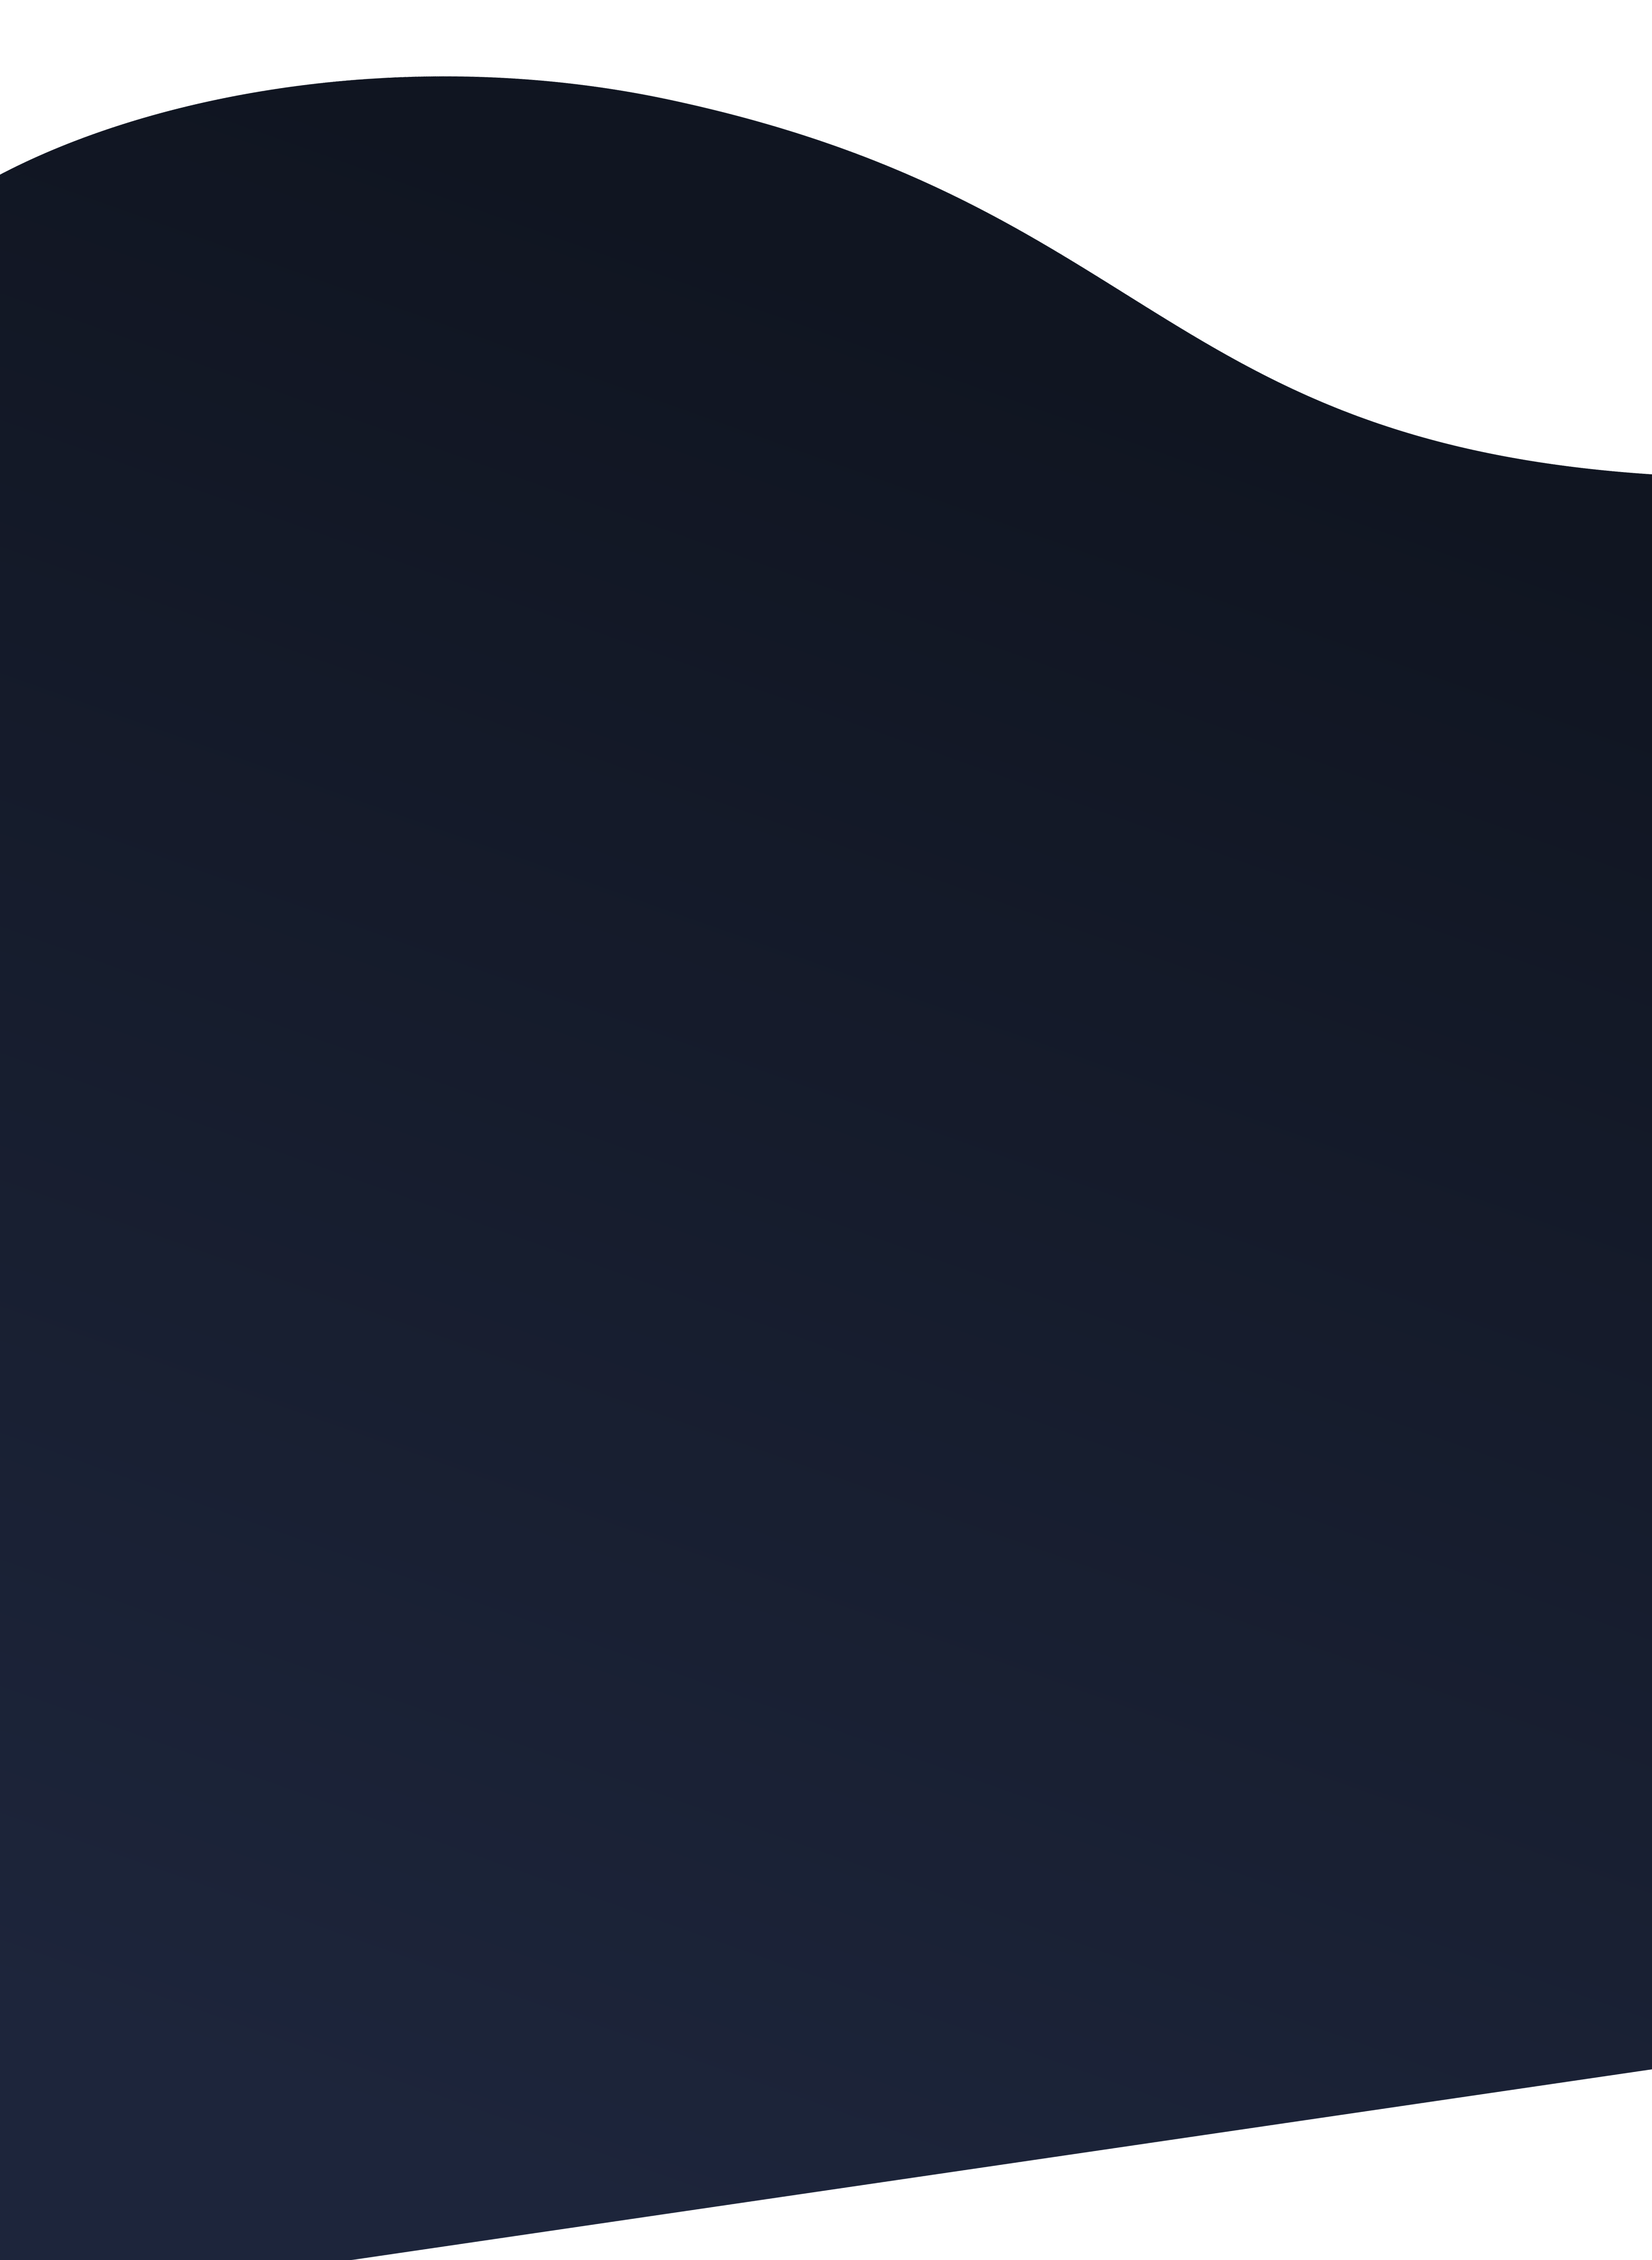
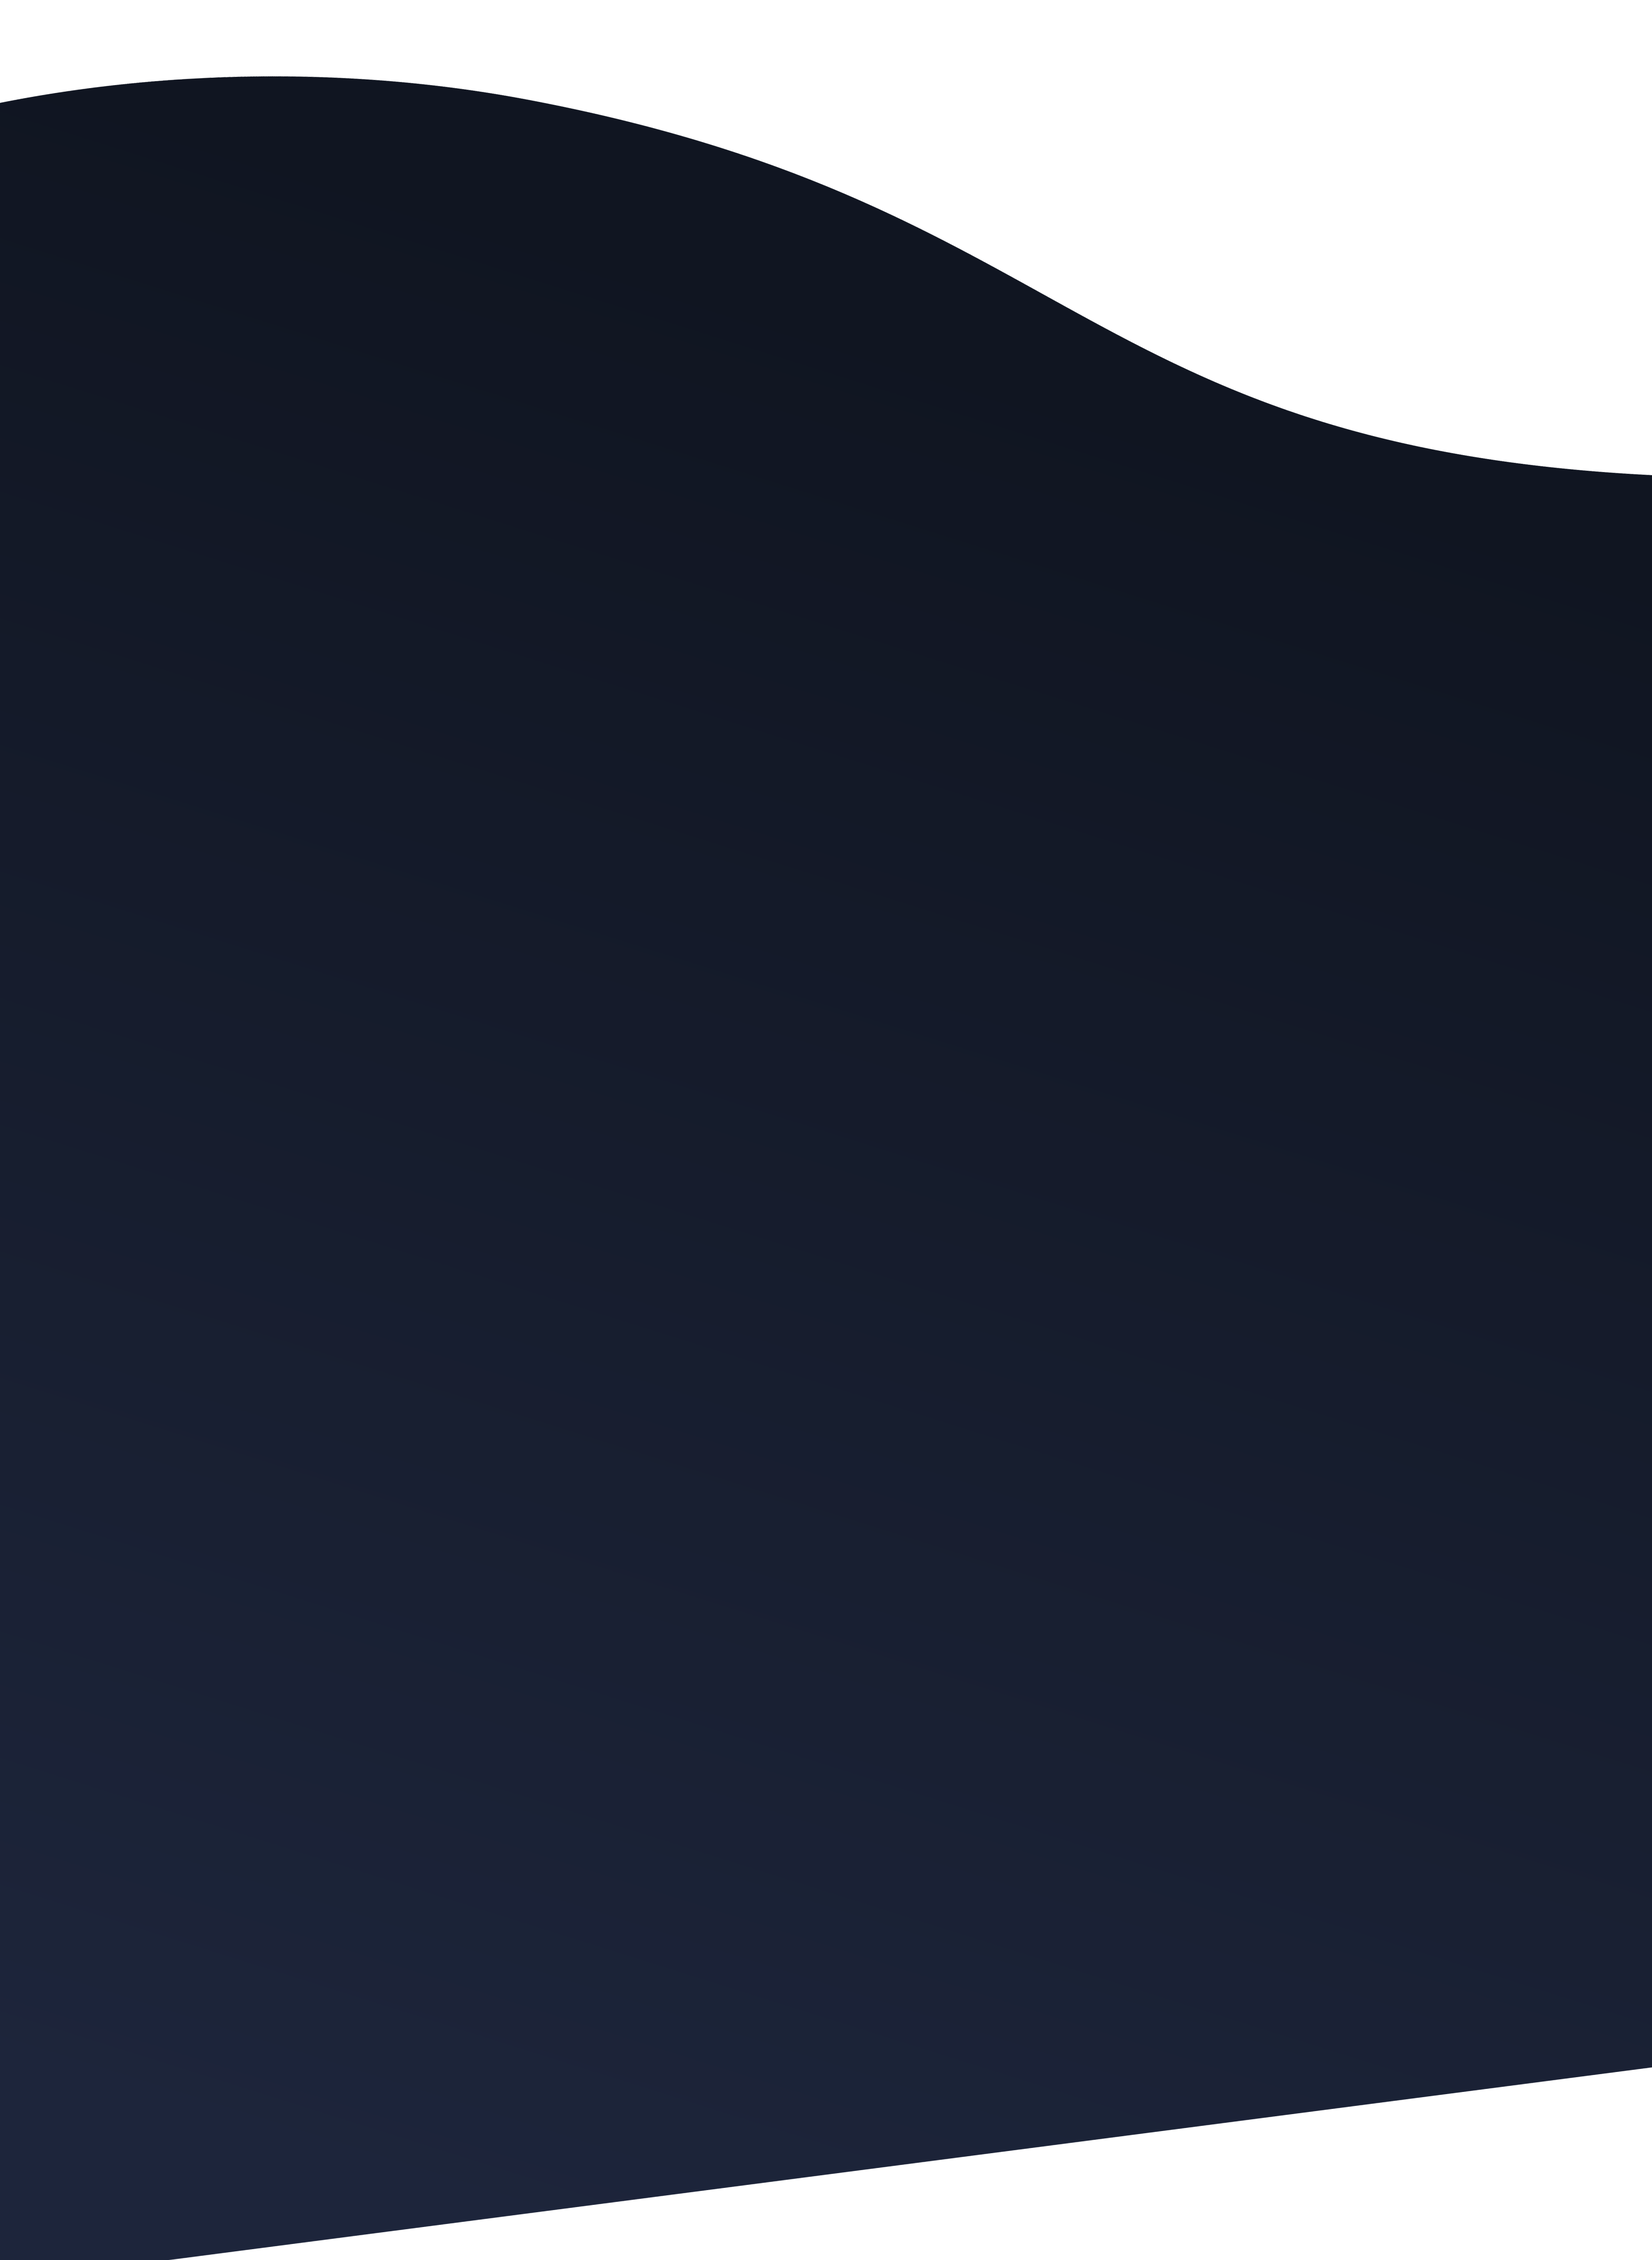
Trucks 40%

diff --git a/index.html b/index.html
@@ -202,11 +202,59 @@ Legendario
                     <a href="#" class="funfhun"><img src="/assets/Recurso33.png" alt="350"></a>
                     
                   </div>
+                  </section>
           </div>
         <div class="sil2"></div>
       </div>
       <div class="many_2">
         <div class="curve"></div>
+        <div class="truck_Content">
+          <h2>Tipo De <br> Camiones</h2>
+          <p>Existen varios tipos de camiones, que según su tipo de <br>
+            rareza, dan una mayor seguridad en la recompensa  <br>
+            por cada viaje realizado. Dependiendo de la rareza del <br> 
+            NFT mayor será el porcentaje de un viaje seguro. Estos  <br>
+            tipos de rarezas son:</p>
+            <img class="meep" src="./assets/Recurso35.png" alt="purplebakcground">
+            <img class="meeps" src="./assets/Recurso36.png" alt="purplebakcground">
+        </div>
+        <!-- <section class="sections">
+          <div class="columnso">
+            <figure class="imag">
+              <img src="/assets/Recurso37.png">
+            </figure>
+            <h3>Comunes</h3>
+            <p>
+              50% de probabilidad de avería en el <br>
+              viaje
+            </p>
+
+          </div>
+          <div class="columnnso">
+            <figure class="imag">
+              <img src="/assets/Recurso38.png">
+            </figure>
+            <h3>Cofre De Oro</h3>
+            <p>
+              50% Garage Raro y Camión Raro <br>
+50% Garage Mítico y Camión Mítico
+             </p>
+             <a href="#" class="funfhun"><img src="/assets/Recurso39.png" alt="250"></a>
+          </div>
+          <div class="columnnso">
+            <figure class="imag">
+              <img src="/assets/Recurso32.png">
+            </figure>
+            <h3>Cofre De Diamante</h3>
+            <p>
+              50% Garage Mítico y Camión Mítico <br>
+50% Garage Legendario y Camión 
+Legendario
+            </p>
+            <a href="#" class="funfhun"><img src="/assets/Recurso33.png" alt="350"></a>
+            
+          </div>
+          </section> -->
       </div>
       <div class="cloudz">
         <span class="cloud-one">

diff --git a/css/style.css b/css/style.css
@@ -528,7 +528,38 @@ main .content-center .presale {
   background-repeat: no-repeat;
   background-size: cover;
   width: 100%;
-  height: 150vh;
-  top: 580%;
+  height:500vh;
+  top: 575%;
   z-index: -3;
+}
+.content-center .many_2 .truck_Content h2{
+  position: absolute;
+  left: 10%;
+  top:5%;
+  font-size: 4em;
+  padding: 10px;
+  text-align: left;
+}
+.content-center .many_2 .truck_Content p{
+  position: absolute;
+  left: 10%;
+  top:11%;
+  padding: 10px;
+  text-align: left;
+  color: var(--nav-color);
+  font-size: 1.3em;
+}
+.content-center .many_2 .truck_Content  .meep{
+  position: absolute;
+  max-width: 700px;
+  top: 12%;
+  left: 22%;
+  z-index: -4;
+}
+.content-center .many_2 .truck_Content  .meeps{
+  position: absolute;
+  max-width: 400px;
+  top: 17%;
+  left: 68%;
+  z-index: -4;
 }
